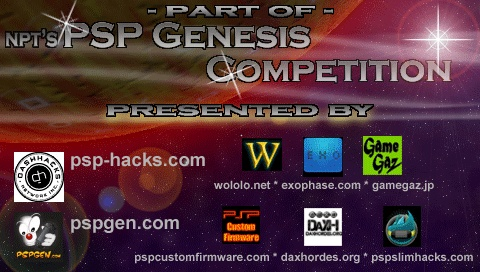
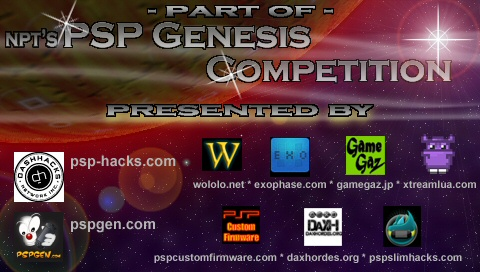
Changed Version to 6.XX PRO-B5. Updated Genesis Splash Image. @VF: What the heck did you change? M2 Micro + DJ Max Portable 2 now works.

diff --git a/SystemControl/systemctrl.c b/SystemControl/systemctrl.c
@@ -339,7 +339,7 @@ int sctrlHENGetVersion()
 
 int sctrlHENGetMinorVersion()
 {
-	return 0x4;
+	return 0x5;
 }
 
 PspIoDrv *sctrlHENFindDriver(char *drvname)
